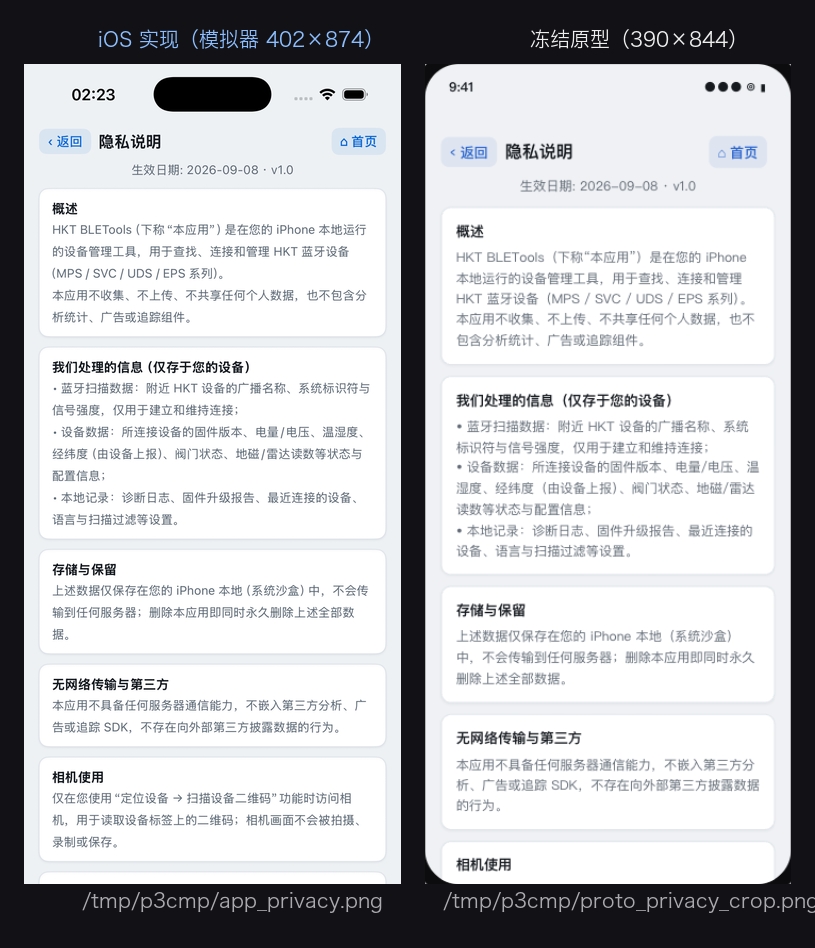
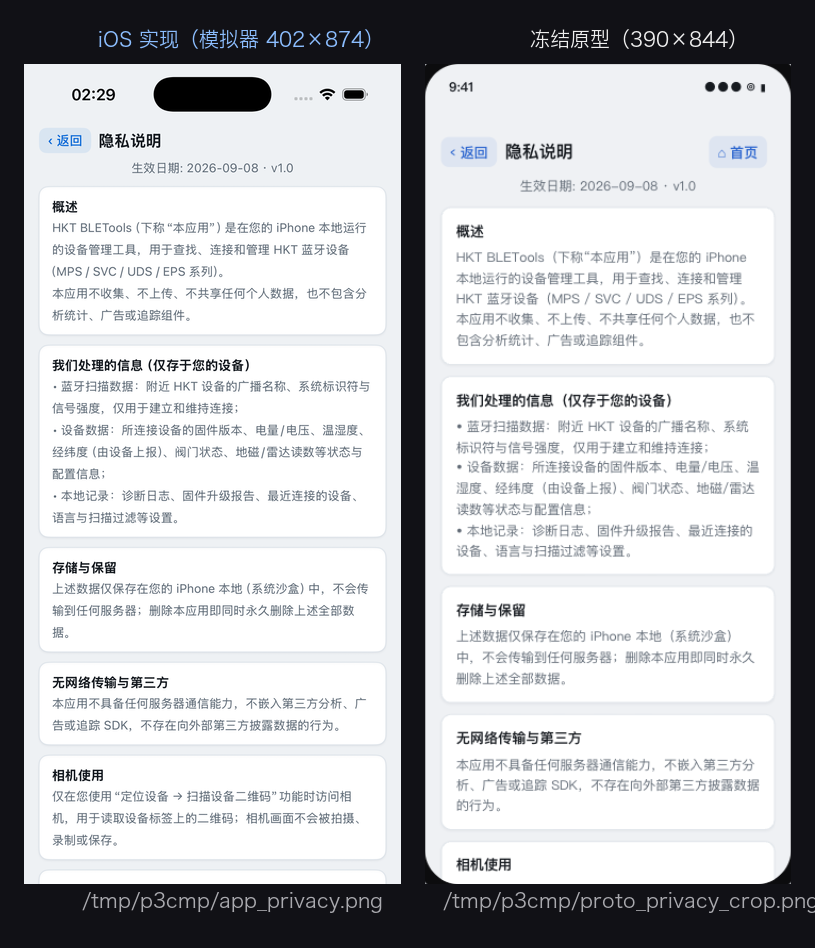
fix(ios): privacy page drops the home button (user ruling 2026-09-10)
Second-level statement page reached from settings has no jump-to-home
scenario; prototype navbar showHome was a leftover. Spec card §1 updated.
Comparison refreshed.

diff --git a/HKT-BLETools/ios/App/PrivacyView.swift b/HKT-BLETools/ios/App/PrivacyView.swift
@@ -10,10 +10,11 @@ struct PrivacyView: View {
 
     var body: some View {
         VStack(spacing: 0) {
+            // 用户 2026-09-10 裁决：隐私页不显示「⌂ 首页」（二级说明页，原型 navbar showHome 残留）
             NavbarHeader(title: zh ? "隐私说明" : "Privacy",
                          backText: zh ? "‹ 返回" : "‹ Back",
                          onBack: { dismiss() }) {
-                LinkButton(title: zh ? "⌂ 首页" : "⌂ Home") { dismiss() }
+                EmptyView()
             }
             ScrollView {
                 VStack(alignment: .leading, spacing: 0) {

diff --git a/HKT-BLETools/docs/ios/design/ui-spec/P-privacy.md b/HKT-BLETools/docs/ios/design/ui-spec/P-privacy.md
@@ -9,7 +9,7 @@
 ## 1. 页面结构
 
 ```
-navbar.small：back 胶囊「‹ 返回」+ 标题「隐私说明」+ navright「⌂ 首页」
+navbar.small：back 胶囊「‹ 返回」+ 标题「隐私说明」（无首页按钮，用户 2026-09-10 裁决）
 body（padding 0 16 24）
   ├─ 生效日期行：kv 13px 居中，margin 2 0 10 →「生效日期: 2026-09-08 · v1.0」
   └─ 11 张卡片（.card：padding 13 14、r10、margin-bottom 11）
